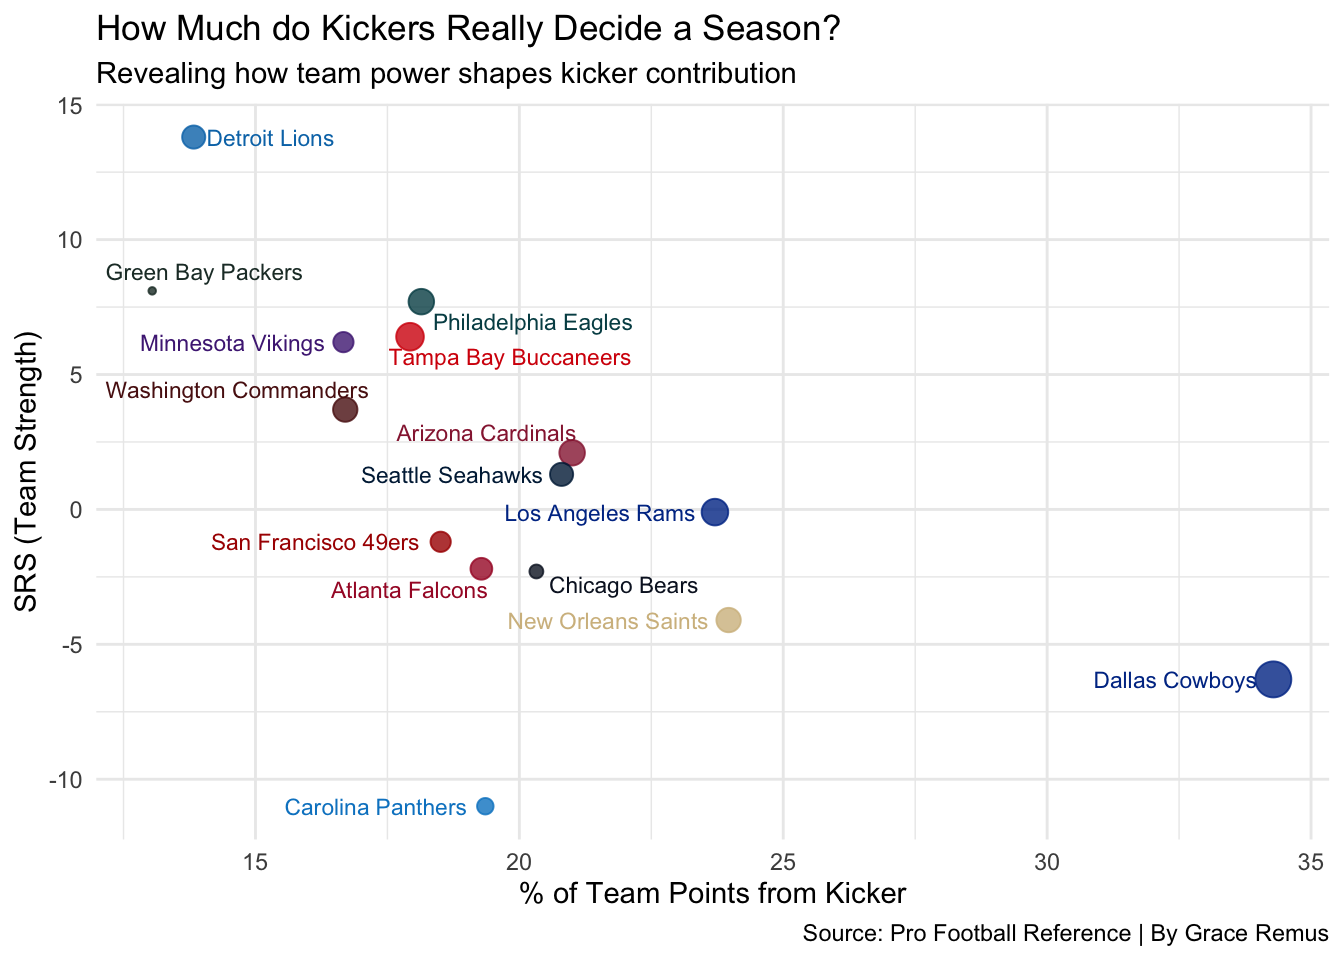
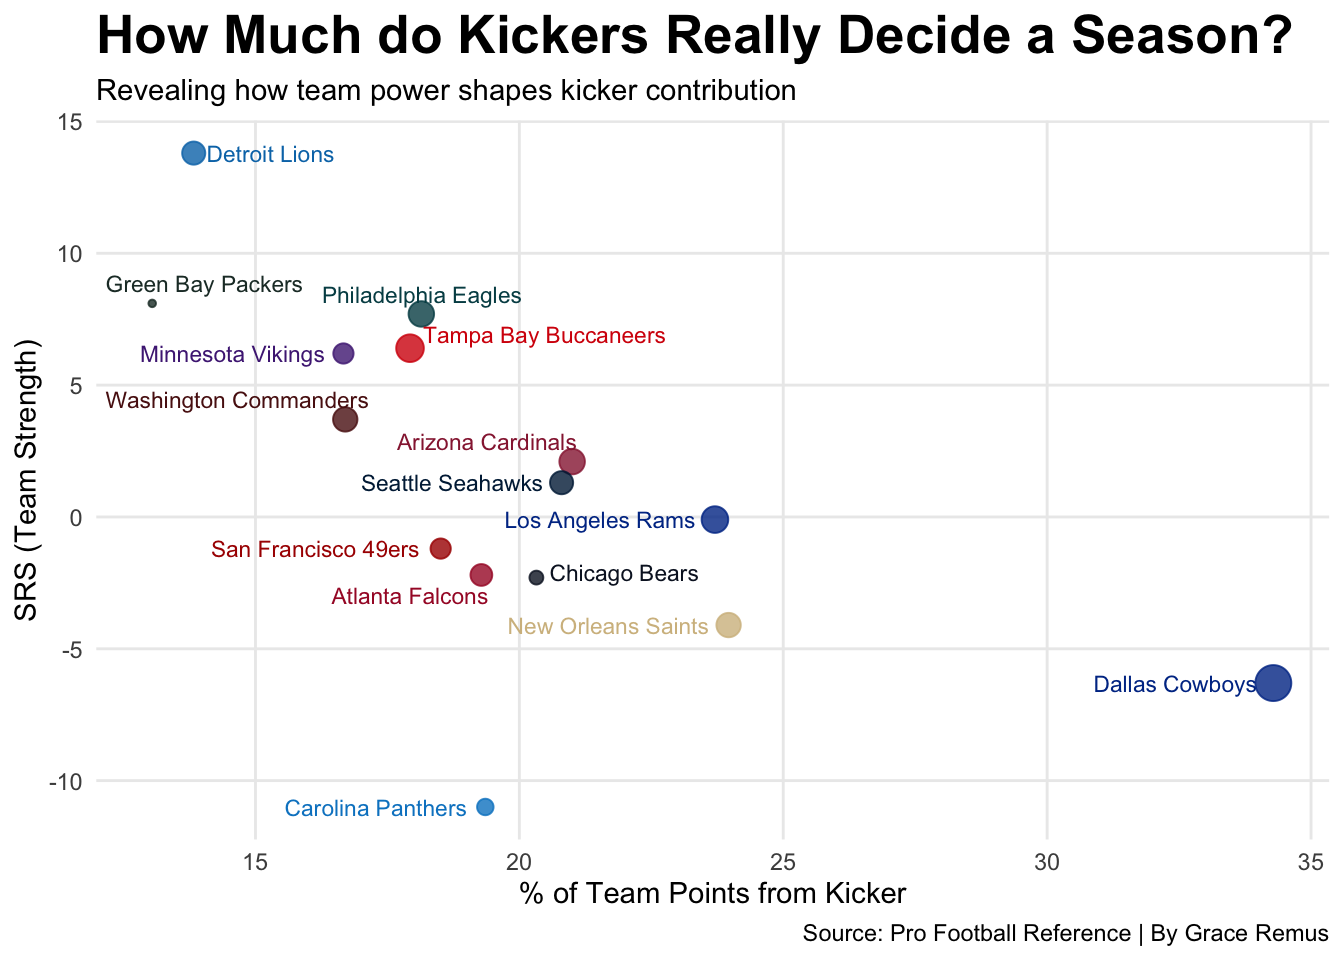
doneithink

diff --git a/posts/kicker-value-to-getting-wins/index.html b/posts/kicker-value-to-getting-wins/index.html
@@ -256,7 +256,9 @@ pre > code.sourceCode > span > a:first-child::before { text-decoration: underlin
 <span id="cb1-53"><a href="#cb1-53" aria-hidden="true" tabindex="-1"></a>    <span class="at">title =</span> <span class="st">"Kicker Accuracy Compared to Overall Team Win-Loss Percentage"</span>,</span>
 <span id="cb1-54"><a href="#cb1-54" aria-hidden="true" tabindex="-1"></a>    <span class="at">subtitle =</span> <span class="st">"Does Having an Accurate Kicker Guarantee More Wins?"</span>, <span class="at">caption=</span><span class="st">"Source: Pro Football Reference | By Grace Remus"</span></span>
 <span id="cb1-55"><a href="#cb1-55" aria-hidden="true" tabindex="-1"></a>  ) <span class="sc">+</span></span>
-<span id="cb1-56"><a href="#cb1-56" aria-hidden="true" tabindex="-1"></a>  <span class="fu">theme_minimal</span>()</span></code></pre></div><button title="Copy to Clipboard" class="code-copy-button"><i class="bi"></i></button></div>
+<span id="cb1-56"><a href="#cb1-56" aria-hidden="true" tabindex="-1"></a>  <span class="fu">theme_minimal</span>() <span class="sc">+</span> <span class="fu">theme</span>(</span>
+<span id="cb1-57"><a href="#cb1-57" aria-hidden="true" tabindex="-1"></a>    <span class="at">plot.title =</span> <span class="fu">element_text</span>(<span class="at">size =</span> <span class="dv">20</span>, <span class="at">face =</span> <span class="st">"bold"</span>), <span class="at">panel.grid.minor =</span> <span class="fu">element_blank</span>()</span>
+<span id="cb1-58"><a href="#cb1-58" aria-hidden="true" tabindex="-1"></a>    ) </span></code></pre></div><button title="Copy to Clipboard" class="code-copy-button"><i class="bi"></i></button></div>
 </details>
 <div class="cell-output-display">
 <div>
@@ -293,7 +295,9 @@ pre > code.sourceCode > span > a:first-child::before { text-decoration: underlin
 <span id="cb2-18"><a href="#cb2-18" aria-hidden="true" tabindex="-1"></a>  <span class="fu">scale_fill_manual</span>(<span class="at">values =</span> <span class="fu">c</span>(<span class="st">"kicker_PTS"</span> <span class="ot">=</span> <span class="st">"red"</span>, <span class="st">"other_PTS"</span> <span class="ot">=</span> <span class="st">"dodgerblue"</span>),</span>
 <span id="cb2-19"><a href="#cb2-19" aria-hidden="true" tabindex="-1"></a>                    <span class="at">labels =</span> <span class="fu">c</span>(<span class="st">"Kicker Points"</span>, <span class="st">"Offensive Points"</span>)) <span class="sc">+</span></span>
 <span id="cb2-20"><a href="#cb2-20" aria-hidden="true" tabindex="-1"></a>  <span class="fu">labs</span>(<span class="at">title =</span> <span class="st">"Kicker Contribution to Team Points"</span>, <span class="at">subtitle =</span> <span class="st">"How many points are kickers scoring compared to the rest of the team?"</span>, <span class="at">caption=</span><span class="st">"Source: Pro Football Reference | By Grace Remus"</span>, <span class="at">x =</span> <span class="st">"Team"</span>, <span class="at">y =</span> <span class="st">"Points"</span>) <span class="sc">+</span></span>
-<span id="cb2-21"><a href="#cb2-21" aria-hidden="true" tabindex="-1"></a>  <span class="fu">theme_minimal</span>()</span></code></pre></div><button title="Copy to Clipboard" class="code-copy-button"><i class="bi"></i></button></div>
+<span id="cb2-21"><a href="#cb2-21" aria-hidden="true" tabindex="-1"></a>  <span class="fu">theme_minimal</span>() <span class="sc">+</span> <span class="fu">theme</span>(</span>
+<span id="cb2-22"><a href="#cb2-22" aria-hidden="true" tabindex="-1"></a>    <span class="at">plot.title =</span> <span class="fu">element_text</span>(<span class="at">size =</span> <span class="dv">20</span>, <span class="at">face =</span> <span class="st">"bold"</span>), <span class="at">panel.grid.minor =</span> <span class="fu">element_blank</span>()</span>
+<span id="cb2-23"><a href="#cb2-23" aria-hidden="true" tabindex="-1"></a>    ) </span></code></pre></div><button title="Copy to Clipboard" class="code-copy-button"><i class="bi"></i></button></div>
 </details>
 <div class="cell-output-display">
 <div>
@@ -345,7 +349,9 @@ pre > code.sourceCode > span > a:first-child::before { text-decoration: underlin
 <span id="cb3-34"><a href="#cb3-34" aria-hidden="true" tabindex="-1"></a>  <span class="fu">theme_minimal</span>() <span class="sc">+</span> </span>
 <span id="cb3-35"><a href="#cb3-35" aria-hidden="true" tabindex="-1"></a>  <span class="fu">theme</span>(</span>
 <span id="cb3-36"><a href="#cb3-36" aria-hidden="true" tabindex="-1"></a>    <span class="at">legend.position =</span> <span class="st">"none"</span></span>
-<span id="cb3-37"><a href="#cb3-37" aria-hidden="true" tabindex="-1"></a>  )</span></code></pre></div><button title="Copy to Clipboard" class="code-copy-button"><i class="bi"></i></button></div>
+<span id="cb3-37"><a href="#cb3-37" aria-hidden="true" tabindex="-1"></a>  ) <span class="sc">+</span> <span class="fu">theme</span>(</span>
+<span id="cb3-38"><a href="#cb3-38" aria-hidden="true" tabindex="-1"></a>    <span class="at">plot.title =</span> <span class="fu">element_text</span>(<span class="at">size =</span> <span class="dv">20</span>, <span class="at">face =</span> <span class="st">"bold"</span>), <span class="at">panel.grid.minor =</span> <span class="fu">element_blank</span>()</span>
+<span id="cb3-39"><a href="#cb3-39" aria-hidden="true" tabindex="-1"></a>    ) </span></code></pre></div><button title="Copy to Clipboard" class="code-copy-button"><i class="bi"></i></button></div>
 </details>
 <div class="cell-output-display">
 <div>

diff --git a/index.html b/index.html
@@ -209,7 +209,7 @@ window.Quarto = {
 
 <div class="quarto-listing quarto-listing-container-default" id="listing-listing">
 <div class="list quarto-listing-default">
-<div class="quarto-post image-right" data-index="0" data-categories="Zm9vdGJhbGwlMkNuZmwlMkNraWNrZXI=" data-listing-date-sort="1763359200000" data-listing-file-modified-sort="1763428430304" data-listing-date-modified-sort="NaN" data-listing-reading-time-sort="8" data-listing-word-count-sort="1402">
+<div class="quarto-post image-right" data-index="0" data-categories="Zm9vdGJhbGwlMkNuZmwlMkNraWNrZXI=" data-listing-date-sort="1763359200000" data-listing-file-modified-sort="1763428911316" data-listing-date-modified-sort="NaN" data-listing-reading-time-sort="8" data-listing-word-count-sort="1465">
 <div class="thumbnail"><a href="./posts/kicker-value-to-getting-wins/index.html" class="no-external">
 
 <img loading="lazy" src="./posts/kicker-value-to-getting-wins/image.png" class="thumbnail-image">
